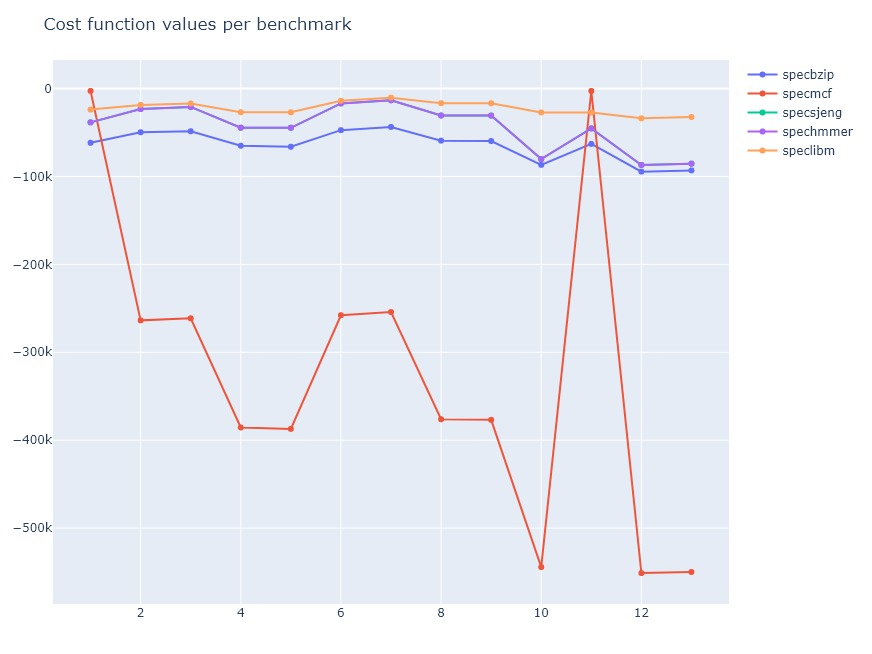
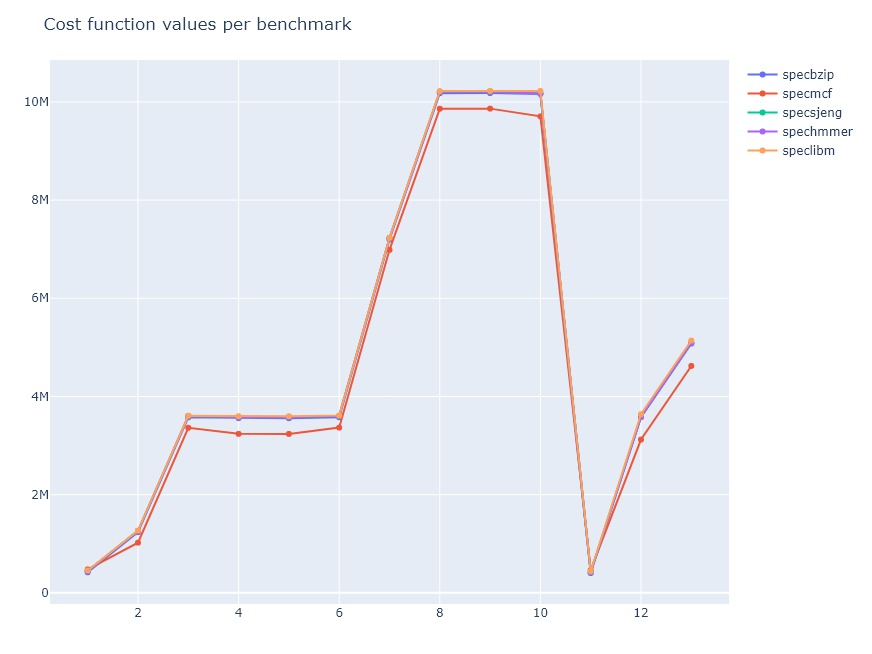
Update cost function, add references

diff --git a/README.md b/README.md
@@ -118,9 +118,11 @@ Architecture optimization subsequently means constant concern for cost optimizat
 
 * __Cache Associativity__ increase results in more complex hardware so the cost is somewhat increased. There is a significant decrease CPI because of smaller miss rates./
 
-We composed a _cost function_ that compares the cost of the changes we make to the caches to the speedup they offer. The system configuration that secures the lowest cost function value is the ideal.
+We composed a _cost function_ that compares the cost of the changes we make to the caches to the speedup they offer. The system configuration that secures the lowest cost function value is the ideal. Using [this reference](https://www.sciencedirect.com/topics/computer-science/set-associative-cache#:~:text=Set%20associative%20caches%20generally%20have%20lower%20miss%20rates,because%20of%20the%20output%20multiplexer%20and%20additional%20comparators.) we discovered that associativity influences the complexity weakly and non-linearly, which led us to the formula below:
 
-<img src="https://render.githubusercontent.com/render/math?math=\color{grey}5000\cdot\sqrt{assoc(L1I)}\cdot size(L1I)%2B5000\cdot\sqrt{assoc(L1D)}\cdot size(L1D)%2B1000\cdot\sqrt{assoc(L2)}\cdot size(L2)-\frac{1}{CPI}\cdot(\frac{8}{missrate(L1I)}%2B\frac{8}{missrateL1D}%2B\frac{2}{missrate(L2)})">
+<img src="https://render.githubusercontent.com/render/math?math=\color{grey}5000\cdot(\sqrt{assoc(L1I)}\cdot size(L1I)%2B \cdot\sqrt{assoc(L1D)}\cdot size(L1D)%2B \cdot\sqrt{assoc(L2)}\cdot size(L2))-\frac{1}{CPI}\cdot(\frac{8}{missrate(L1I)}%2B\frac{8}{missrateL1D}%2B\frac{2}{missrate(L2)})">
+
+**Note:** The sizes of L1 cache were in kB and the corresponding L2 sizes are kept in MB.
 
 ###### System Parameters 
 
@@ -140,7 +142,7 @@ We composed a _cost function_ that compares the cost of the changes we make to t
 | round 12 | 256KB       | 256KB       | 4MB          | 2            | 2            | 8             |
 | round 13 | 256KB       | 256KB       | 4MB          | 4            | 4            | 8             |
 
-By looking at the following graph, we can see that the optimal configuration for all five benchmarks is this of __round 12__.
+By looking at the following graph, we can see that the optimal configuration for all five benchmarks is this of __round 11__.
 Therefore, this is the configuration that achieves high perfomance, while maintaining a relatively low cost.
 
 ![cost.function](./output/cost_function.jpeg)
